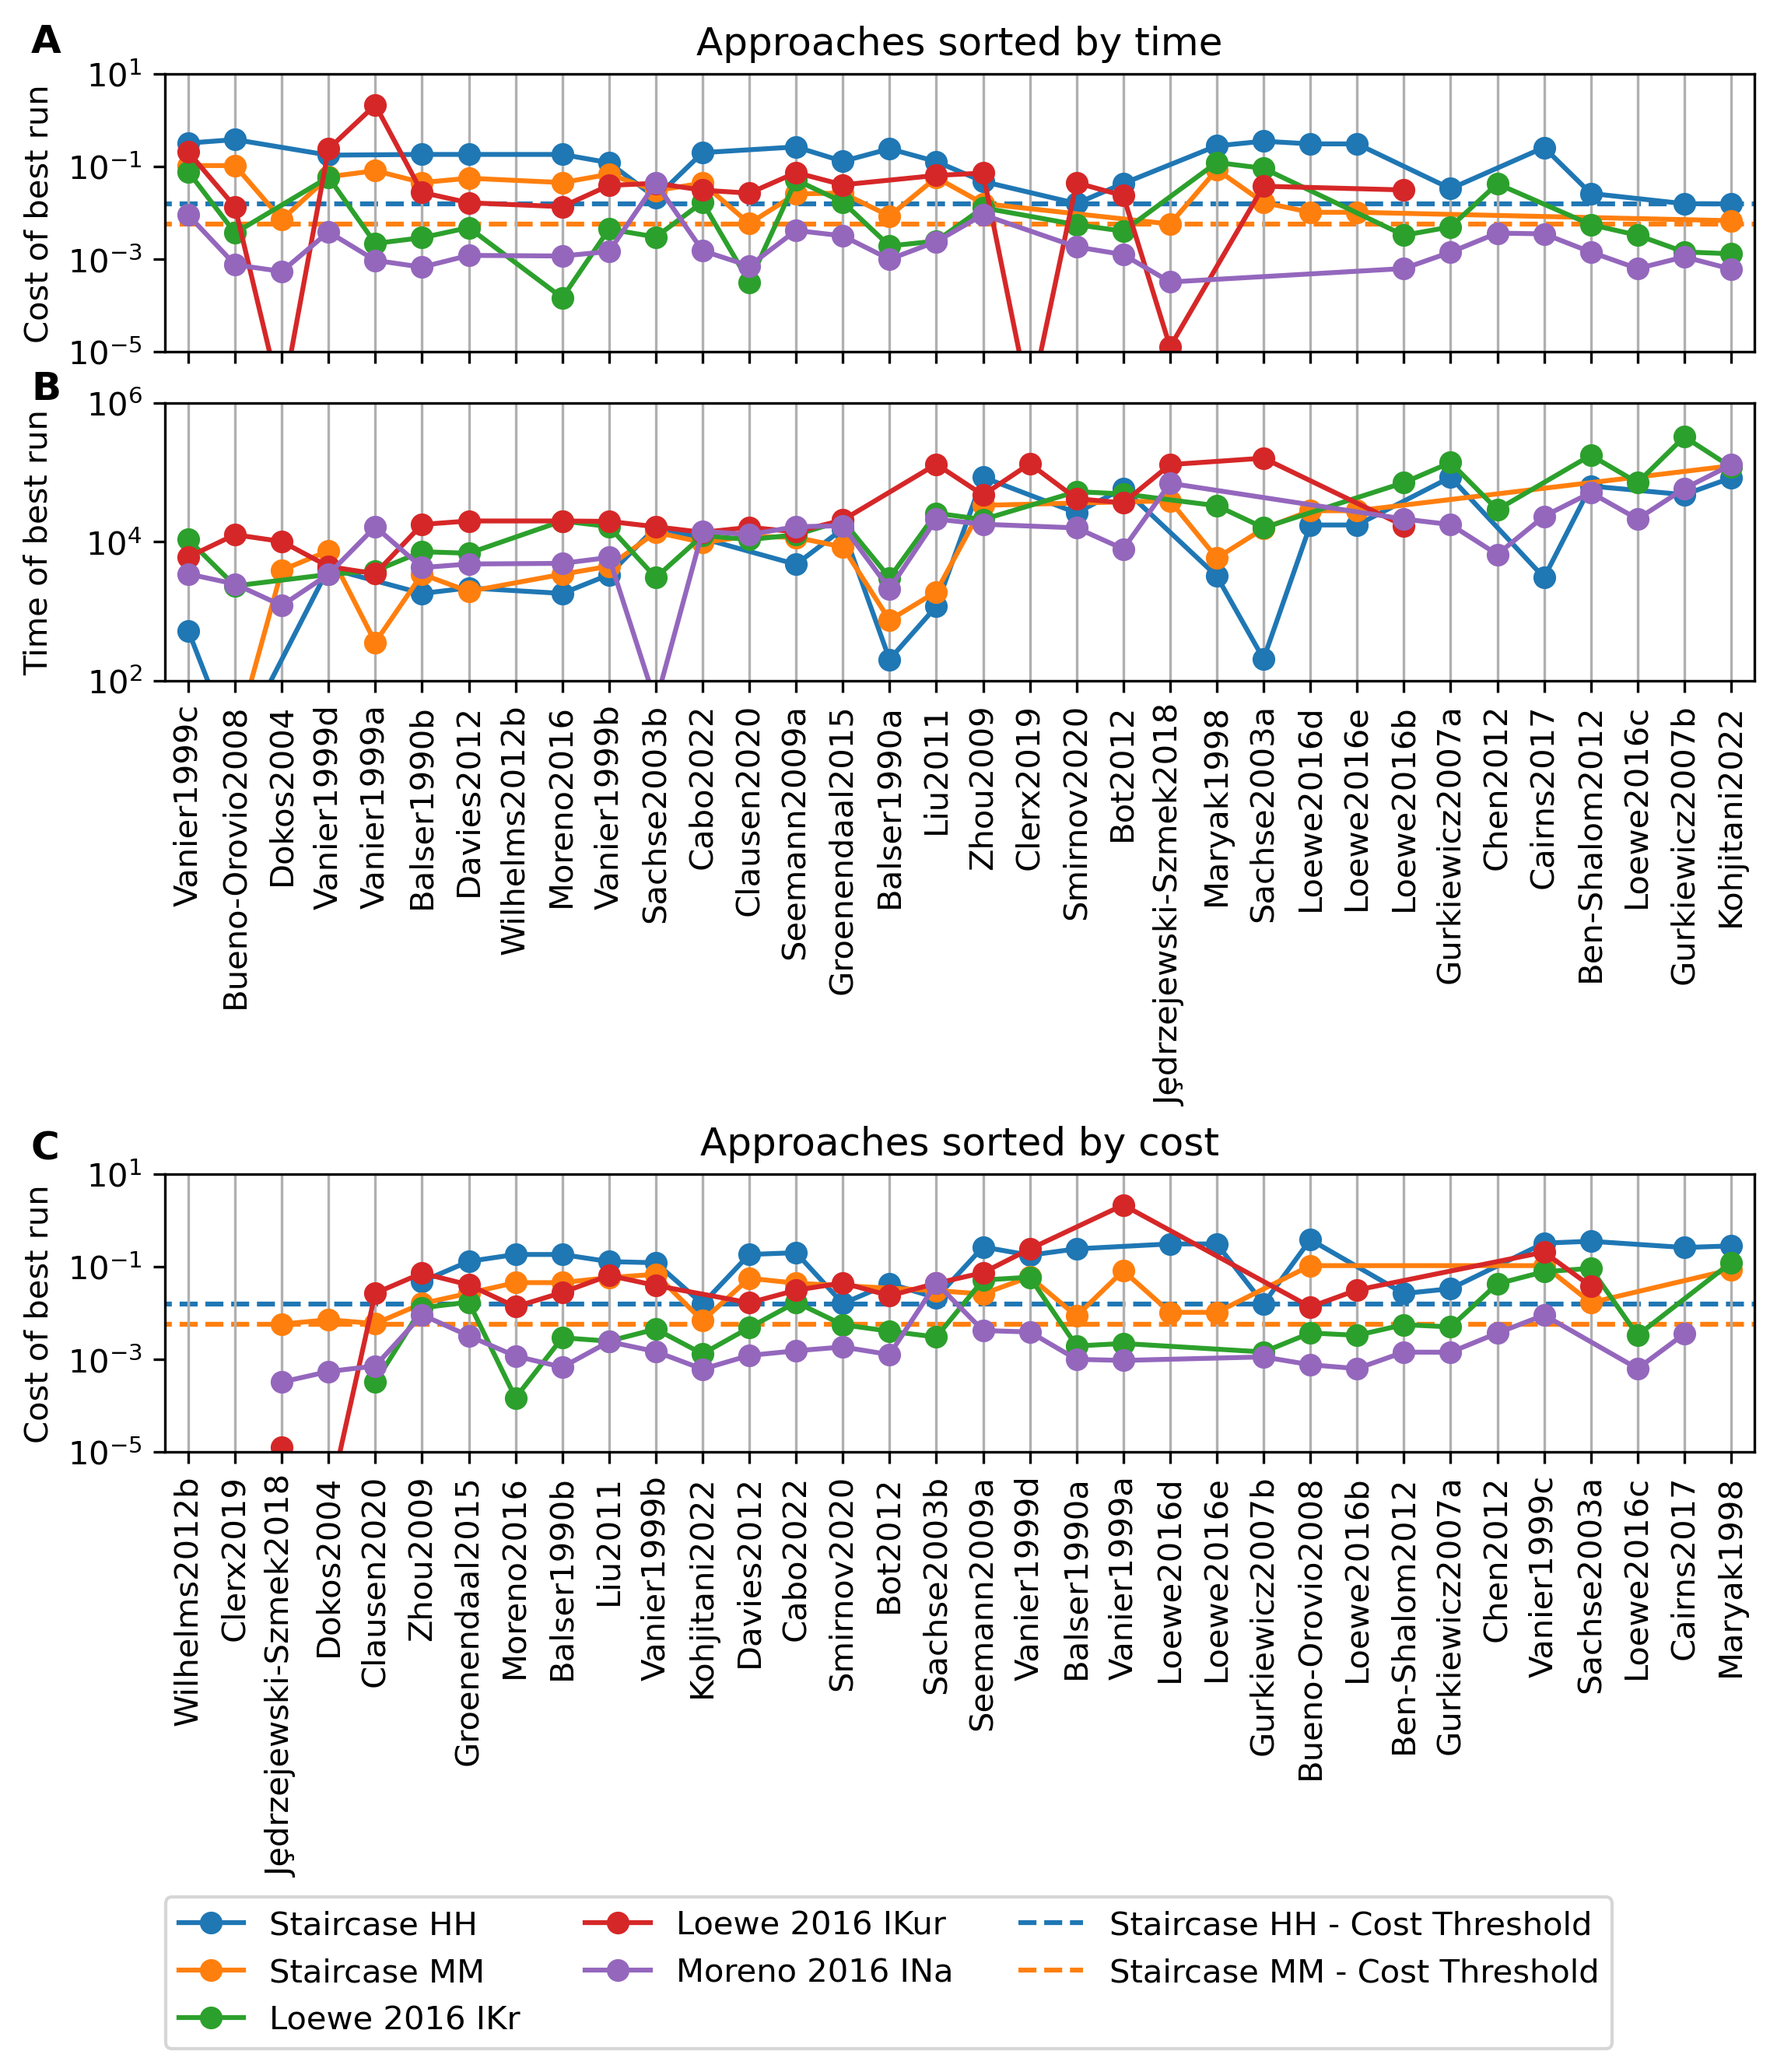
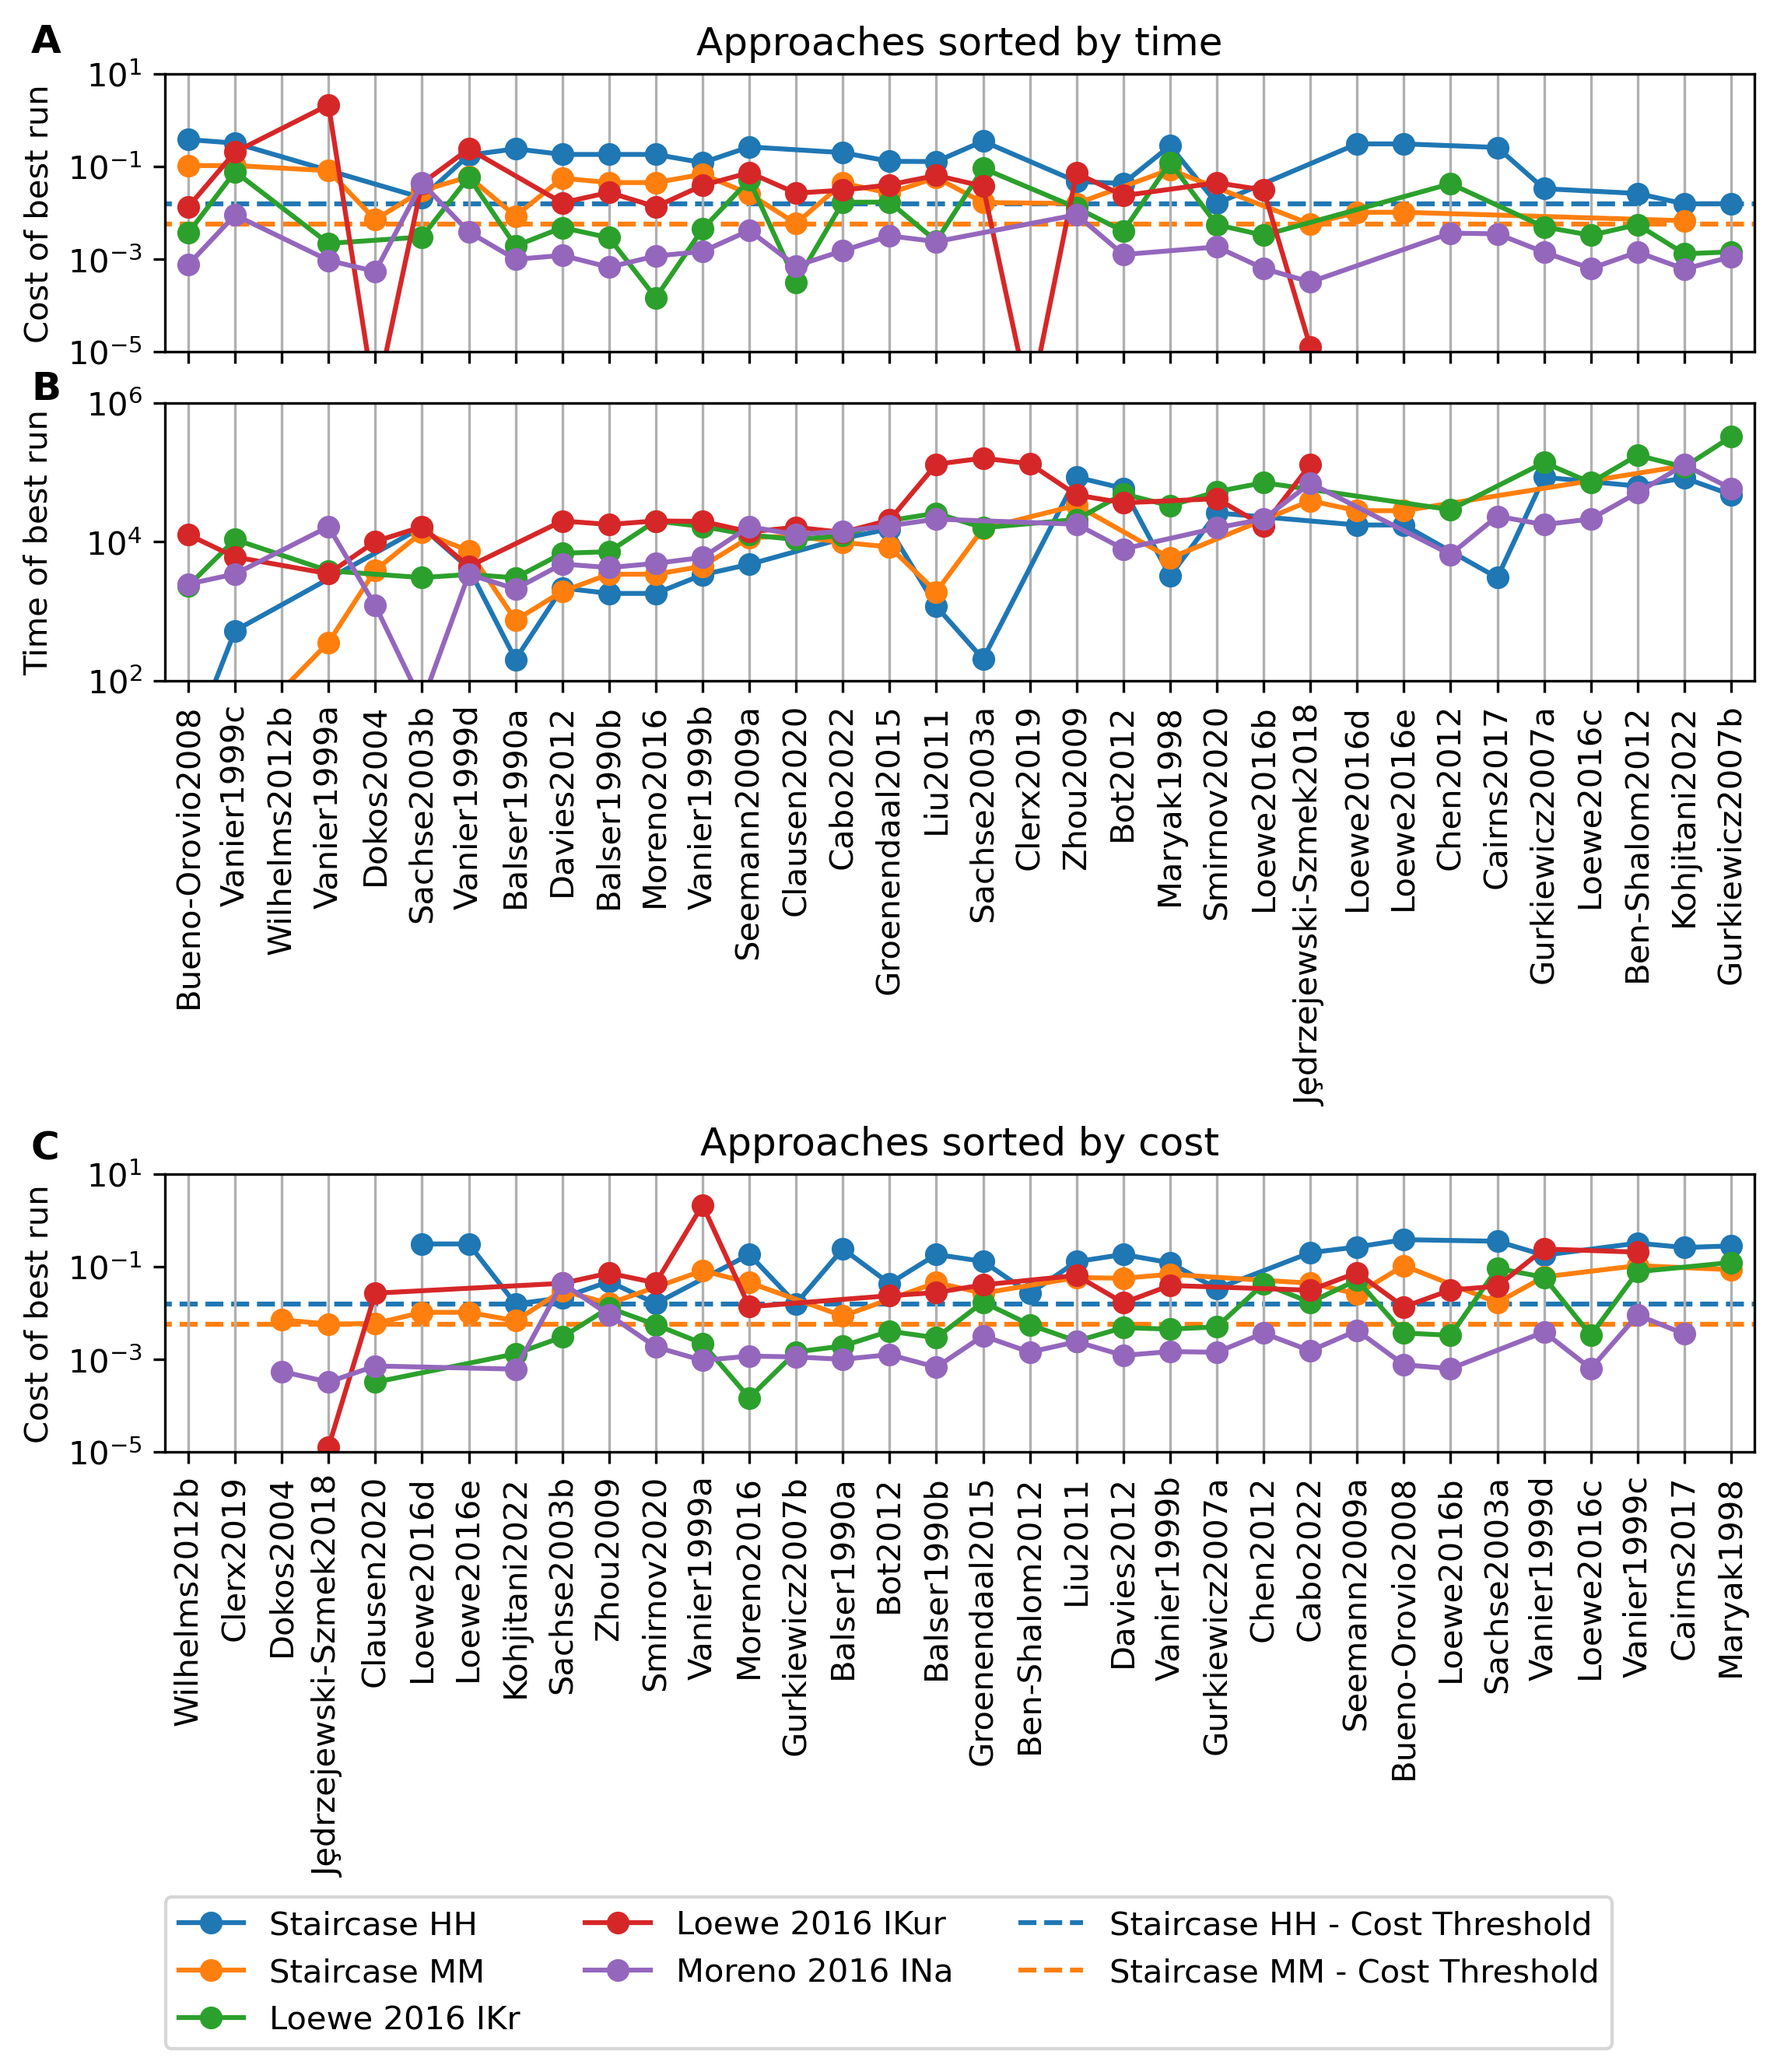
moved sorting to a log scale for failed plot

diff --git a/scripts/resultsFigures.py b/scripts/resultsFigures.py
@@ -15,7 +15,7 @@ def apply_identifiers(name, types):
 
 
 def sorting_score(x, xmin, xmax):
-    return np.linalg.norm((x-xmin)/(xmax-xmin))
+    return np.linalg.norm(np.log(x/xmin)/np.log(xmax/xmin))
 
 
 def simplify_name(name):
